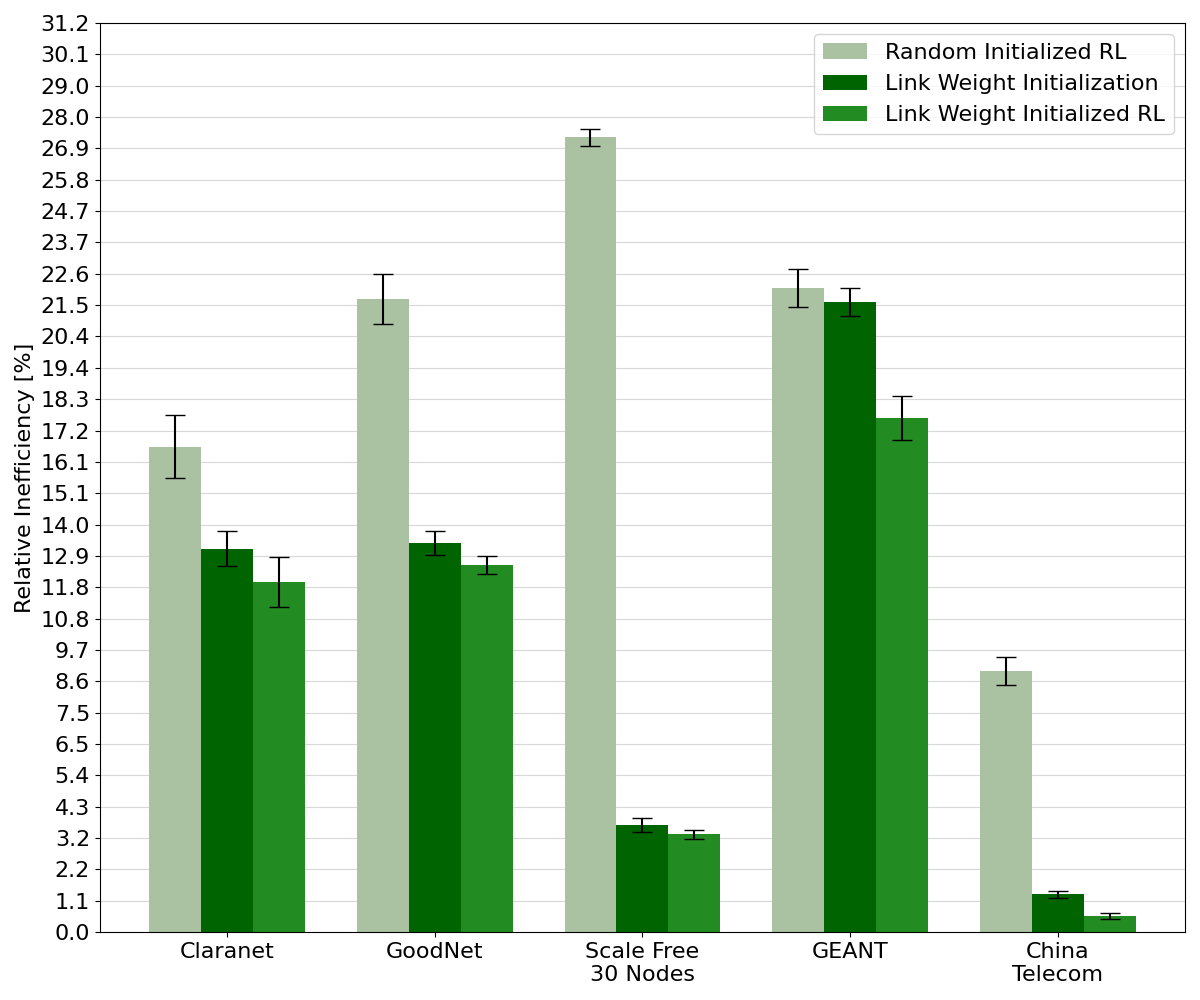
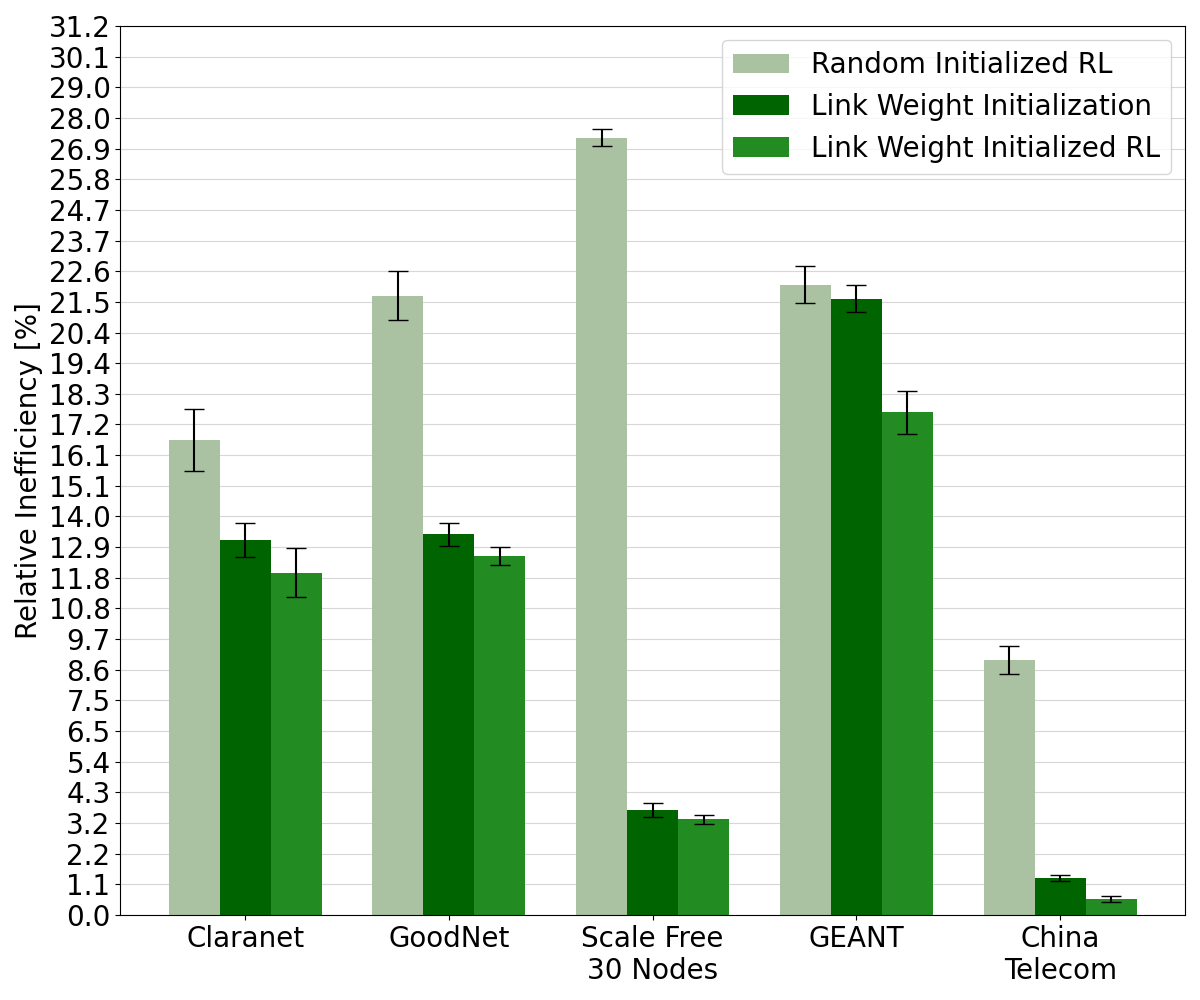
graphs

Changed region(s): [[0.1233, 0.124, 0.9558, 0.992], [0.0, 0.0, 0.0925, 0.93], [0.5858, 0.031, 0.9867, 0.186]]

diff --git a/Smart_Nodes_Routing/plots/graphs_plot.py b/Smart_Nodes_Routing/plots/graphs_plot.py
@@ -24,7 +24,7 @@ def plot_baselines_graphs(save_file, x_labels, y_data, oblivious_baseline, h_lin
     bar_design["Key Nodes Train Set"] = {"color": "darkgreen", "alpha": 1.0, "hatch": None}
     bar_design["Test Sets"] = {"color": "forestgreen", "alpha": 1.0, "hatch": None}
 
-    fontsize = 15
+    fontsize = 20
     fig = plt.figure(figsize=(12, 10))
     ax = plt.subplot()
     ax.autoscale(enable=True)
@@ -78,7 +78,7 @@ def plot_cross_topologies_graphs(save_file, topologies, y_data,y_ticks_int=False
     bar_design["Random Initialized RL"] = {"color": "#aac2a1", "alpha": 1.0, "hatch": None}
     bar_design["Link Weight Initialization"] = {"color": "darkgreen", "alpha": 1.0, "hatch": None}
     bar_design["Link Weight Initialized RL"] = {"color": "forestgreen", "alpha": 1.0, "hatch": None}
-    fontsize = 16
+    fontsize = 20
     fig = plt.figure(figsize=(12, 10))
     ax = plt.subplot()
     ax.autoscale(enable=True)

diff --git a/Smart_Nodes_Routing/plots/parsing_data_results.py b/Smart_Nodes_Routing/plots/parsing_data_results.py
@@ -48,7 +48,7 @@ def parse_rl_optimization_cross_topologies(traffic):
     data = js.load(f)
     f.close()
     raw_labels = ("naive_RL", "first_RL_phase")
-    topologies_raw_names = ("claranet", "goodNet", "scaleFree30Nodes", "GEANT", "china_Telecom")
+    topologies_raw_names = ("claranet", "goodNet", "scaleFree30Nodes", "GEANT", "china_telecom")
     topologies = ("Claranet", "GoodNet", "Scale Free\n30 Nodes", "GEANT", "China\nTelecom")
 
     y_data = dict()

diff --git a/Smart_Nodes_Routing/smart_nodes_rl_agent.py b/Smart_Nodes_Routing/smart_nodes_rl_agent.py
@@ -36,7 +36,7 @@ if __name__ == "__main__":
     lp_file = config_folder + config["lp_file"]
     lp_tms = load_dump_file(lp_file)["tms"]
 
-    PRE_POLICY_UPDATE = 100
+    PRE_POLICY_UPDATE = 0
     if load_agent is None:
         logger.info("********* Iteration 0 Starts *********")
         model, single_env, weights_factor = model_learn(config_folder, "Iteration_0", load_agent, load_network)
